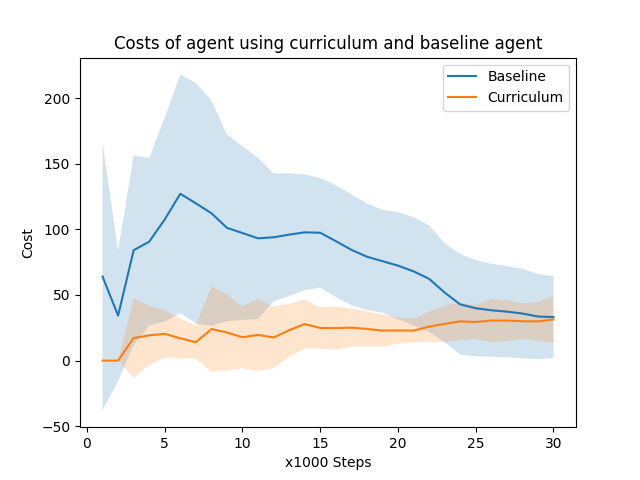
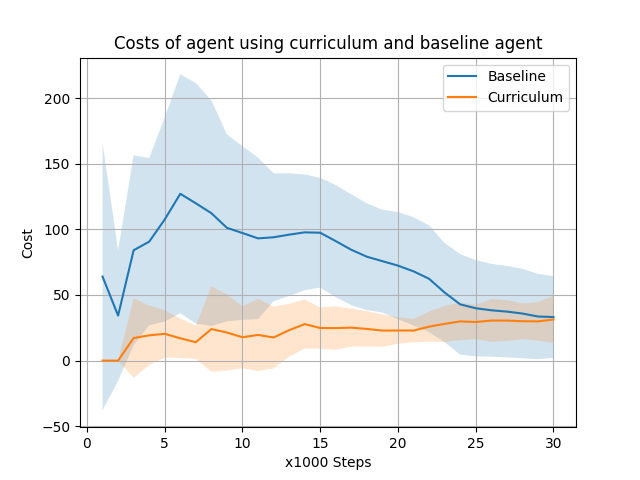
Changed registration of envs
Now we do not need to change the source files

diff --git a/main.py b/main.py
@@ -1,7 +1,6 @@
 import omnisafe
 import torch
 import os
-import safety_gymnasium
 import random as rand
 import pandas as pd
 import numpy as np
@@ -10,13 +9,9 @@ import matplotlib.pyplot as plt
 from custom_envs.curriculum_env import CurriculumEnv
 
 steps_per_epoch = 1000
-epochs = 40
+epochs = 1
 
-def test(random, folder):
-    # register(id="Curriculum0-v0", entry_point="custom_envs.curriculum_level_0:CurriculumLevel0")
-
-    # safety_gymnasium.vector.make(env_id="Curriculum0-v0", num_envs=1)
-
+def test(random, folder, num_videos):
     baseline_env_id = 'SafetyPointBaseline2-v0'
     curr_env_id = 'SafetyPointCurriculum2-v0'
 
@@ -25,7 +20,6 @@ def test(random, folder):
     else:
         seed = 0
 
-    # env_id = "SafetyPointGoal0-v0"
     baseline_custom_cfgs = {
         'seed': seed,
         'train_cfgs': {
@@ -36,7 +30,8 @@ def test(random, folder):
         'algo_cfgs': {
             'steps_per_epoch': steps_per_epoch,
             'update_iters': 1,
-            'cost_limit': 10.0,
+            # 'cost_limit': 10.0,
+            'penalty_coef': 0.01,
         },
         'logger_cfgs': {
             'log_dir': "./app/results/" + folder + "/baseline",
@@ -44,9 +39,9 @@ def test(random, folder):
             # 'use_wandb': True,
             # 'wandb_project': "TODO",
         },
-        # 'lagrange_cfgs': {
-        #     'cost_limit': 10.0,
-        # },
+        'lagrange_cfgs': {
+            'cost_limit': 10.0,
+        },
     }
 
     curr_custom_cfgs = {
@@ -59,7 +54,9 @@ def test(random, folder):
         'algo_cfgs': {
             'steps_per_epoch': steps_per_epoch,
             'update_iters': 1,
-            'cost_limit': 10.0,
+            # 'cost_limit': 10.0,
+            'penalty_coef': 0.01, # use costs also as a negative reward
+            # 'use_cost': True, # mainly for updating the cost-critic
         },
         'logger_cfgs': {
             'log_dir': "./app/results/" + folder + "/curriculum",
@@ -67,22 +64,22 @@ def test(random, folder):
             # 'use_wandb': True,
             # 'wandb_project': "TODO",
         },
-        # 'lagrange_cfgs': {
-        #     'cost_limit': 10.0,
-        # },
+        'lagrange_cfgs': {
+            'cost_limit': 10.0,
+        },
     }
 
-    baseline_agent = omnisafe.Agent('PPOEarlyTerminated', baseline_env_id, custom_cfgs=baseline_custom_cfgs)
-    curr_agent = omnisafe.Agent('PPOEarlyTerminated', curr_env_id, custom_cfgs=curr_custom_cfgs)
+    baseline_agent = omnisafe.Agent('PPOLag', baseline_env_id, custom_cfgs=baseline_custom_cfgs)
+    curr_agent = omnisafe.Agent('PPOLag', curr_env_id, custom_cfgs=curr_custom_cfgs)
 
-    def print_agent_params(agent):
-        scan_dir = os.scandir(os.path.join(agent.agent.logger.log_dir, 'torch_save'))
-        for item in scan_dir:
-            if item.is_file() and item.name.split('.')[-1] == 'pt':
-                model_path = os.path.join(agent.agent.logger.log_dir, 'torch_save', item.name)
-                model_params = torch.load(model_path)
-                for thingy in model_params['pi']:
-                    print(thingy, model_params['pi'][thingy].size())
+    # def print_agent_params(agent):
+    #     scan_dir = os.scandir(os.path.join(agent.agent.logger.log_dir, 'torch_save'))
+    #     for item in scan_dir:
+    #         if item.is_file() and item.name.split('.')[-1] == 'pt':
+    #             model_path = os.path.join(agent.agent.logger.log_dir, 'torch_save', item.name)
+    #             model_params = torch.load(model_path)
+    #             for thingy in model_params['pi']:
+    #                 print(thingy, model_params['pi'][thingy].size())
 
     # print_agent_params(agent=agent)
 
@@ -95,12 +92,10 @@ def test(random, folder):
 
         agent.render(num_episodes=episodes, render_mode='rgb_array', width=256, height=256)
 
-    get_multiple_videos(agent=baseline_agent, episodes=3)
-    get_multiple_videos(agent=curr_agent, episodes=4)
+    get_multiple_videos(agent=baseline_agent, episodes=num_videos)
+    get_multiple_videos(agent=curr_agent, episodes=num_videos + 1)
 
-    # How is the starting position of the agent determined?
-
-def nice_plot(folder):
+def nice_plot(folder, include_weak=False):
     baseline_algorithms = os.scandir("app/results/" + folder + "/baseline")
     curr_algorithms = os.scandir("app/results/" + folder + "/curriculum")
 
@@ -132,6 +127,12 @@ def nice_plot(folder):
         rewardsc.append(dfc['Metrics/EpRet'].to_numpy())
         costsc.append(dfc['Metrics/EpCost'].to_numpy())
 
+    # script_dir = os.path.dirname(__file__)
+    # results_dir = os.path.join(script_dir, 'Results/')
+
+    if not os.path.isdir("app/figures/" + folder):
+        os.makedirs("app/figures/" + folder)
+
     mean_rewards = np.mean(rewards, axis=0)
     mean_costs = np.mean(costs, axis=0)
     mean_rewardsc = np.mean(rewardsc, axis=0)
@@ -142,34 +143,48 @@ def nice_plot(folder):
     std_rewardsc = np.std(rewardsc, axis=0)
     std_costsc = np.std(costsc, axis=0)
 
-    ticks = np.arange(len(mean_rewards), step=5)
-    ticks[0] = 1
+    # ticks = np.arange(len(mean_rewards), step=5)
+    # ticks[0] = 1
 
     plt.plot(np.arange(1, len(mean_rewards) + 1), mean_rewards, label = "Baseline")
     plt.fill_between(x=np.arange(1, len(mean_rewards) + 1), y1=mean_rewards-std_rewards, y2=mean_rewards+std_rewards, alpha=0.2)
-    plt.plot(np.arange(1, len(mean_rewards) + 1), mean_rewardsc, label = "Curriculum")
+    plt.plot(np.arange(1, len(mean_rewards) + 1), mean_rewardsc, label = "Curriculum Strong")
     plt.fill_between(x=np.arange(1, len(mean_rewards) + 1), y1=mean_rewardsc-std_rewardsc, y2=mean_rewardsc+std_rewardsc, alpha=0.2)
+    if include_weak:
+        plt.plot(np.arange(1, len(mean_rewards) + 1 - 20), mean_rewardsc[20:], label = "Curriculum Weak")
+        plt.fill_between(x=np.arange(1, len(mean_rewards) + 1 - 20), y1=(mean_rewardsc-std_rewardsc)[20:], y2=(mean_rewardsc+std_rewardsc)[20:], alpha=0.2)
+    plt.axvline(x = 10, color = "gray", linestyle = '-')
+    plt.axvline(x = 20, color = "gray", linestyle = '-')
     plt.legend()
+    plt.grid()
     plt.title("Rewards of agent using curriculum and baseline agent")
     plt.xlabel("x1000 Steps")
     plt.ylabel("Reward")
-    plt.savefig("app/figures/rewards.png")
+    plt.savefig("app/figures/" + folder + "/rewards.png")
     plt.show()
 
     plt.figure()
     plt.plot(np.arange(1, len(mean_rewards) + 1), mean_costs, label = "Baseline")
     plt.fill_between(x=np.arange(1, len(mean_rewards) + 1), y1=mean_costs-std_costs, y2=mean_costs+std_costs, alpha=0.2)
-    plt.plot(np.arange(1, len(mean_rewards) + 1), mean_costsc, label = "Curriculum")
+    plt.plot(np.arange(1, len(mean_rewards) + 1), mean_costsc, label = "Curriculum Strong")
     plt.fill_between(x=np.arange(1, len(mean_rewards) + 1), y1=mean_costsc-std_costsc, y2=mean_costsc+std_costsc, alpha=0.2)
+    if include_weak:
+        plt.plot(np.arange(1, len(mean_rewards) + 1 - 20), mean_costsc[20:], label = "Curriculum Weak")
+        plt.fill_between(x=np.arange(1, len(mean_rewards) + 1 - 20), y1=(mean_costsc-std_costsc)[20:], y2=(mean_costsc+std_costsc)[20:], alpha=0.2)
+    plt.axhline(y = 10, color = 'r', linestyle = '-') 
+    plt.axvline(x = 10, color = "gray", linestyle = '-')
+    plt.axvline(x = 20, color = "gray", linestyle = '-')
     plt.legend()
+    plt.grid()
     plt.title("Costs of agent using curriculum and baseline agent")
     plt.xlabel("x1000 Steps")
     plt.ylabel("Cost")
-    plt.savefig("app/figures/costs.png")
+    plt.savefig("app/figures/" + folder + "/costs.png")
     plt.show()
 
 if __name__ == '__main__':
     folder = "test-early"
-    for i in range(5, folder):
-        test(True)
-    nice_plot(folder)
+    num_videos = 1
+    # for i in range(1):
+    #     test(True, folder, num_videos)
+    nice_plot(folder, include_weak=True)

diff --git a/custom_envs/__init__.py b/custom_envs/__init__.py
@@ -29,8 +29,12 @@ from safety_gymnasium import vector, wrappers
 from safety_gymnasium.utils.registration import make, register
 from safety_gymnasium.version import __version__
 
-# from safety_gymnasium.builder import Builder
-# from safety_gymnasium.utils.task_utils import get_task_class_nameov
+from safety_gymnasium.builder import Builder
+from safety_gymnasium.utils.task_utils import get_task_class_name
+
+from custom_envs.curriculum_levels.curriculum_level_0 import CurriculumLevel0
+from custom_envs.curriculum_levels.curriculum_level_1 import CurriculumLevel1
+from custom_envs.curriculum_levels.curriculum_level_2 import CurriculumLevel2
 
 __all__ = [
     'register',
@@ -84,7 +88,8 @@ def __combine(tasks, agents, max_episode_steps):
 
             __register_helper(
                 env_id=env_id,
-                entry_point='safety_gymnasium.builder:Builder',
+                # entry_point='safety_gymnasium.builder:Builder',
+                entry_point='custom_envs.__init__:CustomBuilder',
                 spec_kwargs={'config': combined_config, 'task_id': env_id},
                 max_episode_steps=max_episode_steps,
             )
@@ -120,19 +125,28 @@ def __combine(tasks, agents, max_episode_steps):
 # ----------------------------------------
 goal_tasks = {'Curriculum0': {}, 'Curriculum1': {}, 'Curriculum2': {}}
 
-# class CustomBuilder(Builder):
-#     def __init__(self, tasks):
-#         super.__init__()
-#         self.tasks = tasks
+class CustomBuilder(Builder):
+    # def __init__(self):
+    #     super.__init__()
+    #     self.tasks = {
 
-#     def _get_task(self):
-#             class_name = get_task_class_name(self.task_id)
-#             if class_name in self.tasks:
-#                 task_class = self.tasks[class_name]
-#                 task = task_class(config=self.config)
-#                 task.build_observation_space()
-#             else:
-#                 task = super()._get_task()    
-#             return task
+    #     }
+
+    def _get_task_from_string(self, class_name):
+        if class_name == "CurriculumLevel0":
+            return CurriculumLevel0
+        elif class_name == "CurriculumLevel1":
+            return CurriculumLevel1
+        elif class_name == "CurriculumLevel2":
+            return CurriculumLevel2
+        else:
+            return super()._get_task()
+
+    def _get_task(self):
+            class_name = get_task_class_name(self.task_id)
+            task_class = self._get_task_from_string(class_name)
+            task = task_class(config=self.config)
+            task.build_observation_space()
+            return task
     
 __combine(goal_tasks, robots, max_episode_steps=1000)

diff --git a/custom_envs/curriculum_levels/curriculum_level_2.py b/custom_envs/curriculum_levels/curriculum_level_2.py
@@ -22,6 +22,9 @@ class CurriculumLevel2(BaseTask):
         self._add_geoms(Goal(keepout = 0, locations=[(0, 0)])) # placements=[(-0.1, -0.1, 0.1, 0.1)]))
         self._add_geoms(Hazards(size = 0.25, keepout = 0, num=7, locations=[(-0.5, -0.5), (0.5, 0.5), (-0.5, 0.5), (0.5, -0.5), 
                                                                (0, -0.5), (0, 0.5), (0.5, 0)]))
+        
+        # self.agent.locations = [(-1.5, 0)]
+        self._steps = 0
                                                                
         # - in x is to the right
         # - in y is to the top
@@ -40,6 +43,9 @@ class CurriculumLevel2(BaseTask):
         reward += (self.last_dist_goal - dist_goal) * self.goal.reward_distance
         self.last_dist_goal = dist_goal
 
+        # print("reward of a single step:", reward)
+        # print("reward of reaching the goal", self.goal.reward_goal)
+
         if self.goal_achieved:
             reward += self.goal.reward_goal
 
@@ -49,13 +55,20 @@ class CurriculumLevel2(BaseTask):
         # Task-specific reset mechanism
         # Called at env.reset()
         # Used to reset specific member variables
-        pass
+        print("-------- resetting in safety gymnasium 2 with nr. of steps:", self._steps)
+        # if self._steps > 100:
+        #     print("trying to change geoms during step")
+        #     self._geoms = {}
+        #     self._add_geoms(Goal(keepout = 0, locations=[(0, 0)])) # placements=[(-0.1, -0.1, 0.1, 0.1)]))
 
     def specific_step(self):
         # Task-specific step mechanism
         # Called at env.step()
         # Used to change the value of member variables over time
-        pass
+        self._steps += 1
+        # if self._steps == 10:
+        #     print("trying to change agent location during step")
+            # self.agent.locations = [(-0.5, 0)]
 
     def update_world(self):
         """Build a new goal position, maybe with resampling due to hazards."""

diff --git a/custom_envs/curriculum_env.py b/custom_envs/curriculum_env.py
@@ -215,6 +215,8 @@ class CurriculumEnv(CMDP):
             observation: Agent's observation of the current environment.
             info: Some information logged by the environment.
         """
+        print("---- resseting in omnisafe")
+
         if self._rendering:
             self._env = safety_gymnasium.make(id=self._original_env_id, autoreset=True, **self._kwargs)
         elif self._curriculum:
@@ -227,7 +229,10 @@ class CurriculumEnv(CMDP):
             if self._steps == 20000:
                 print("Changed env to level 2")
                 self._env = safety_gymnasium.make(id="SafetyPointCurriculum2-v0", autoreset=True, **self._kwargs)
+
+        # options does absolutely nothing
         obs, info = self._env.reset(seed=seed, options=options)
+        # self._env.task.agent.locations = [(-1.5, 0)]
         return torch.as_tensor(obs, dtype=torch.float32, device=self._device), info
 
     def set_seed(self, seed: int) -> None:

diff --git a/custom_envs/curriculum_levels/curriculum_level_1.py b/custom_envs/curriculum_levels/curriculum_level_1.py
@@ -22,6 +22,8 @@ class CurriculumLevel1(BaseTask):
         self._add_geoms(Goal(keepout = 0, locations=[(0, 0)])) # placements=[(-0.1, -0.1, 0.1, 0.1)]))
         self._add_geoms(Hazards(size = 0.25, keepout = 0, num=7, locations=[(-1, -1), (1, 1), (-1, 1), (1, -1), 
                                                   (0, -1), (0, 1), (1, 0)]))
+        
+        # self.agent.locations = [(-1.5, 0)]
                                                                
         # - in x is to the right
         # - in y is to the top
@@ -49,7 +51,7 @@ class CurriculumLevel1(BaseTask):
         # Task-specific reset mechanism
         # Called at env.reset()
         # Used to reset specific member variables
-        pass
+        print("-------- resetting in safety gymnasium 1")
 
     def specific_step(self):
         # Task-specific step mechanism

diff --git a/custom_envs/curriculum_levels/curriculum_level_0.py b/custom_envs/curriculum_levels/curriculum_level_0.py
@@ -25,6 +25,8 @@ class CurriculumLevel0(BaseTask):
         self._add_geoms(Hazards(size = 0.25, keepout = 0, num=7, locations=[(-1.5, -1.5), (1.5, 1.5), (-1.5, 1.5), (1.5, -1.5), 
                                                   (0, -1.5), (0, 1.5), (1.5, 0)]))
         
+        # self.agent.locations = [(-1.5, 0)]
+        
         # - in x is to the right
         # - in y is to the top
         # (0, 0) is in the middle
@@ -51,7 +53,7 @@ class CurriculumLevel0(BaseTask):
         # Task-specific reset mechanism
         # Called at env.reset()
         # Used to reset specific member variables
-        pass
+        print("-------- resetting in safety gymnasium 0")
 
     def specific_step(self):
         # Task-specific step mechanism
